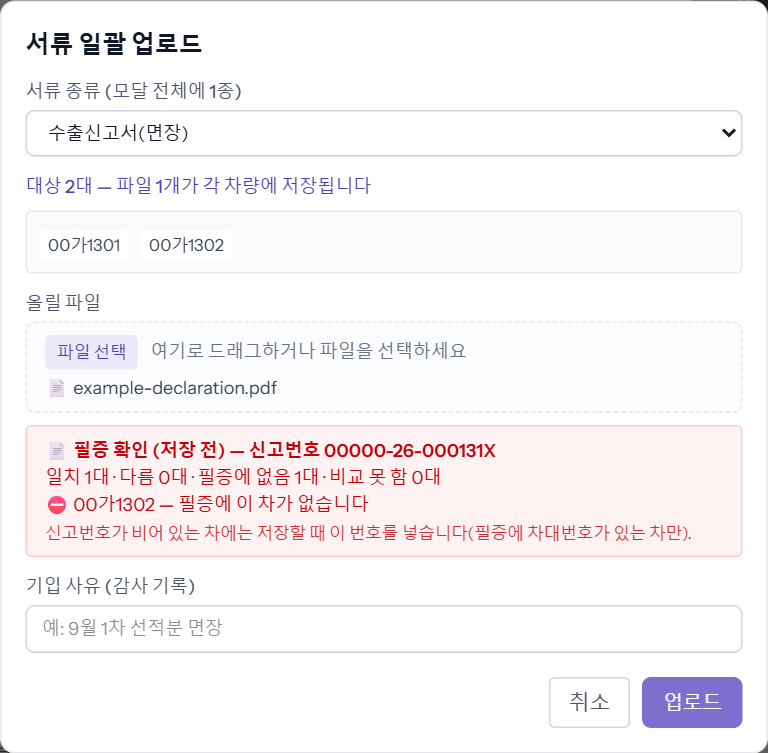
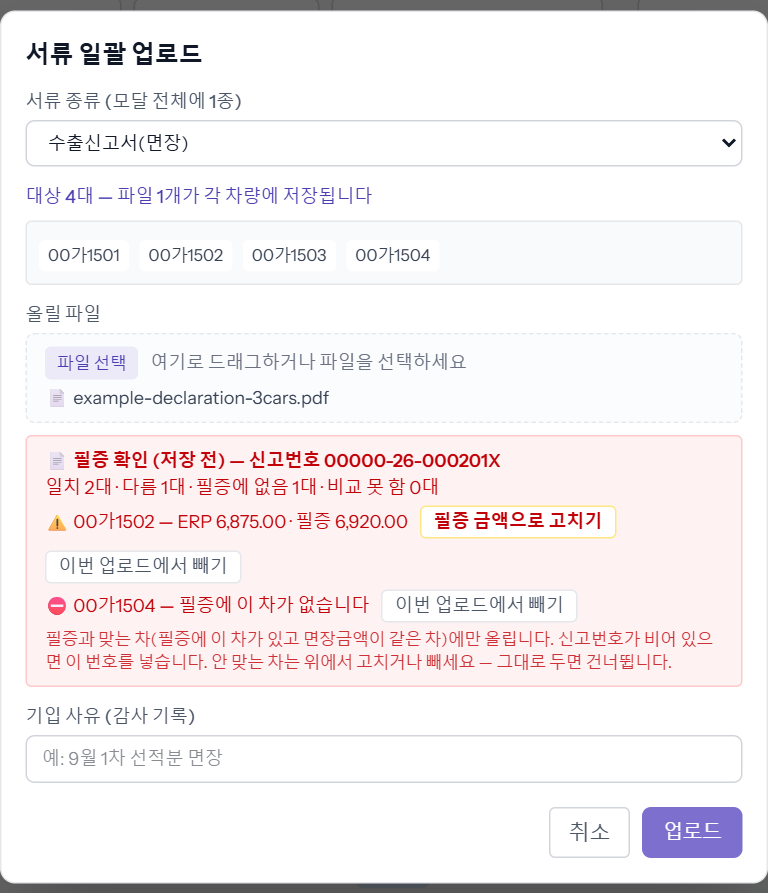
docs(guides): 업무 가이드 — 일괄 필증 업로드(맞는 차만 · 고치기 · 빼기) · 차량 관리 요약 카드(입금금액 · 적립금 사용)
- 「선적일·ETA·번호 일괄 기입」: 수출신고서 PDF 필증은 맞는 차에만 올라가고, 안 맞는 차는
  [필증 금액으로 고치기](관리 이상·영업) · [이번 업로드에서 빼기] — 글·그림 03 교체.
- 「목록 화면 — 찾기·조회·정렬」: ③ 요약 카드 순서와 입금금액 합(= 판매총액 − 미수) · 적립금 사용 합 — 단락·그림 06 추가.

Claude-Session: https://claude.ai/code/session_01C7ygYdZAtd4AhsUU2YYM6i

diff --git a/resources/guides/bulk-shipping-dates/index.html b/resources/guides/bulk-shipping-dates/index.html
@@ -35,11 +35,11 @@
     <ul>
         <li><strong>수출신고서(면장) · 체크빌 · B/L 문서</strong> — 파일 하나가 선택한 차 모두에 저장됩니다. 신고서는 기본으로 파일만 올라가 「선적중」이 되고, 「통관」 체크박스도 함께 켜면 「통관완료」까지 갑니다(통관이 실제로 끝난 차만).</li>
         <li><strong>B/L 문서</strong>를 고르면 「이 작업으로 N대가 거래완료가 되고 출고일이 자동으로 채워집니다」 경고가 나옵니다. 반입지가 없거나 미완납인 차는 사유와 함께 건너뜁니다.</li>
-        <li><strong>수출신고서를 PDF 필증으로 고르면</strong> 업로드 전에 파일 아래 「필증 확인」 상자가 나옵니다 — 차마다 면장금액이 맞는지(일치 · 다름)와 필증에 없는 차가 있는지 보여 줍니다. 다름이나 필증에 없는 차가 있으면 노랑 · 빨강으로 차량번호가 적힙니다. 업로드는 그대로 되고, 수출신고번호가 비어 있던 차(필증에 그 차 차대번호가 있는 차)에만 번호가 들어갑니다. 이미 번호가 있는 차는 바꾸지 않습니다.</li>
+        <li><strong>수출신고서를 PDF 필증으로 고르면</strong> 업로드 전에 파일 아래 「필증 확인」 상자가 나옵니다 — 차마다 면장금액 일치 · 다름, 필증에 없는 차를 보여 줍니다. <strong>필증과 맞는 차(필증에 그 차가 있고 면장금액이 같은 차)에만 파일이 올라가고</strong>, 신고번호가 비어 있던 차에는 필증 번호가 들어갑니다(이미 번호가 있으면 그대로). 안 맞는 차는 상자에서 바로 고치거나 뺍니다 — 면장금액이 다르면 [필증 금액으로 고치기](면장금액을 고칠 수 있는 관리 이상 · 영업 계정만), 필증에 없는 차는 [이번 업로드에서 빼기]. 그대로 두고 올리면 그 차는 건너뛰고, 끝난 뒤 「필증과 맞지 않아 올리지 않은 차」로 차량번호와 사유가 나옵니다. 그림 · 스캔 필증은 읽을 수 없어 종전처럼 그대로 올라갑니다.</li>
         <li><strong>말소증</strong> — 차마다 다른 파일을 담습니다. 「말소」 체크박스도 함께 켜야 「말소완료」가 됩니다.</li>
         <li>이미 파일이 있는 차는 「교체합니다」를 체크해야 바뀝니다. 컨테이너 등 번호가 섞여 있으면 확인란이 나옵니다.</li>
     </ul>
-    <img src="03.png" alt="서류 일괄 업로드 — 수출신고서(면장), 대상 2대, 필증 확인 상자: 일치 1대 · 필증에 없음 1대, 00가1302 — 필증에 이 차가 없습니다">
+    <img src="03.png" alt="서류 일괄 업로드 — 수출신고서(면장), 대상 4대, 필증 확인 상자: 일치 2대 · 다름 1대 · 필증에 없음 1대, 00가1502 줄에 [필증 금액으로 고치기]·[이번 업로드에서 빼기], 00가1504 줄에 [이번 업로드에서 빼기]">
 </div>
 
 <div class="gd-check">

diff --git a/resources/guides/list-search-sort/index.html b/resources/guides/list-search-sort/index.html
@@ -65,3 +65,17 @@
 <div class="gd-check">
     <strong>정렬을 풀려면</strong> — 그 머리글을 표시가 사라질 때까지 누릅니다. 차량 관리는 표 위의 「정렬 해제」를 누르면 한 번에 풀립니다.
 </div>
+
+<h2 class="gd-sec">③ 찾은 차의 합계 — 차량 관리 위 요약 카드</h2>
+
+<div class="gd-step">
+    <div class="gd-n">6단계</div>
+    <h3>검색·필터로 찾은 차들의 돈을 한 줄로 봅니다</h3>
+    <p>차량 관리 목록 위 카드는 지금 찾은 차 전체(페이지와 무관)의 합계입니다. 순서는 <strong>총 차량 → 판매총액 · 입금금액 · 미수금 · 적립금 사용 → 운임비 · 운임비 USD(기록용)</strong>이고, 매입 미지급 · 발송비는 값이 있을 때만 뒤에 붙습니다. 예시는 같은 수출신고번호로 찾은 4대입니다.</p>
+    <img src="06.png" alt="차량 관리 요약 카드 — 총 차량 4대, 판매총액 합 EUR 27,400, 입금금액 합 EUR 13,600, 미수금 합 EUR 13,800, 적립금 사용 합 EUR 500, 운임비 합 EUR 4,400, 운임비 USD(기록용) 합 USD 4,800">
+    <ul>
+        <li><strong>입금금액 합</strong> — 이미 받은 돈. 차마다 판매총액에서 미수를 뺀 값이라 <strong>판매총액 = 입금금액 + 미수금</strong>이 됩니다. 확정한 입금 · 채권관리 회수 · 적립금으로 받은 몫이 다 들어가고, 더 받은 차(과입금)는 받은 만큼 셉니다.</li>
+        <li><strong>적립금 사용 합</strong> — 그 입금 중 적립금으로 받은 금액. 적립금을 쓴 차가 없으면 칸이 안 보입니다.</li>
+        <li>통화가 섞이면 통화별로 나란히 나오고, 다른 통화끼리는 더하지 않습니다. 환율이 없는 외화 차는 입금 · 미수 합에서 빠집니다.</li>
+    </ul>
+</div>
